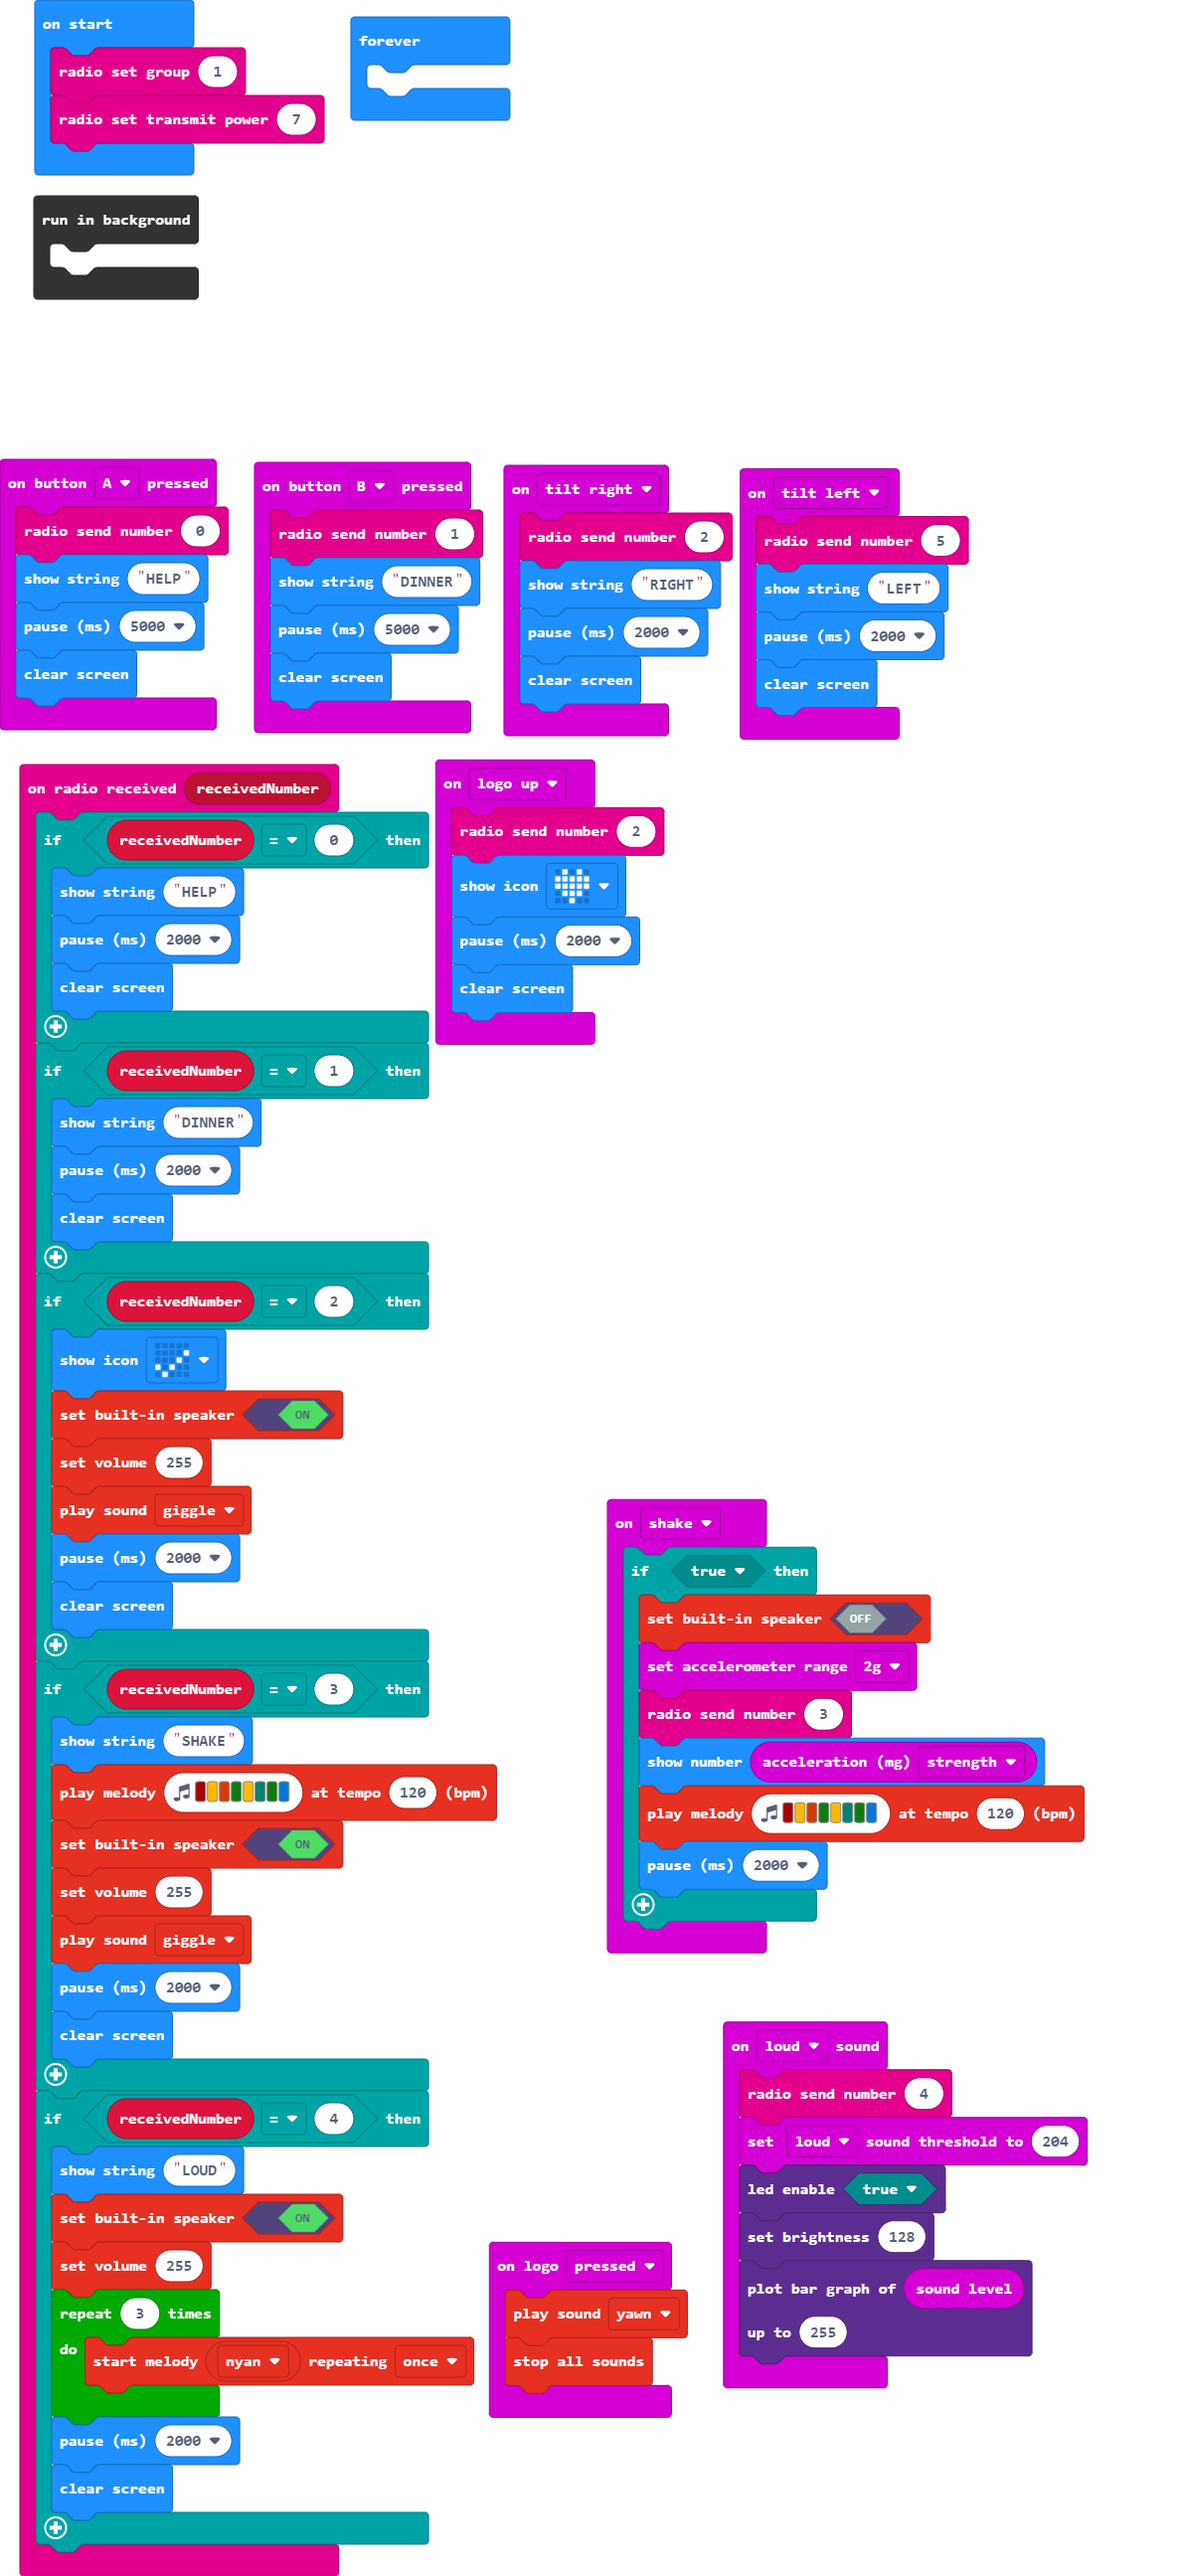
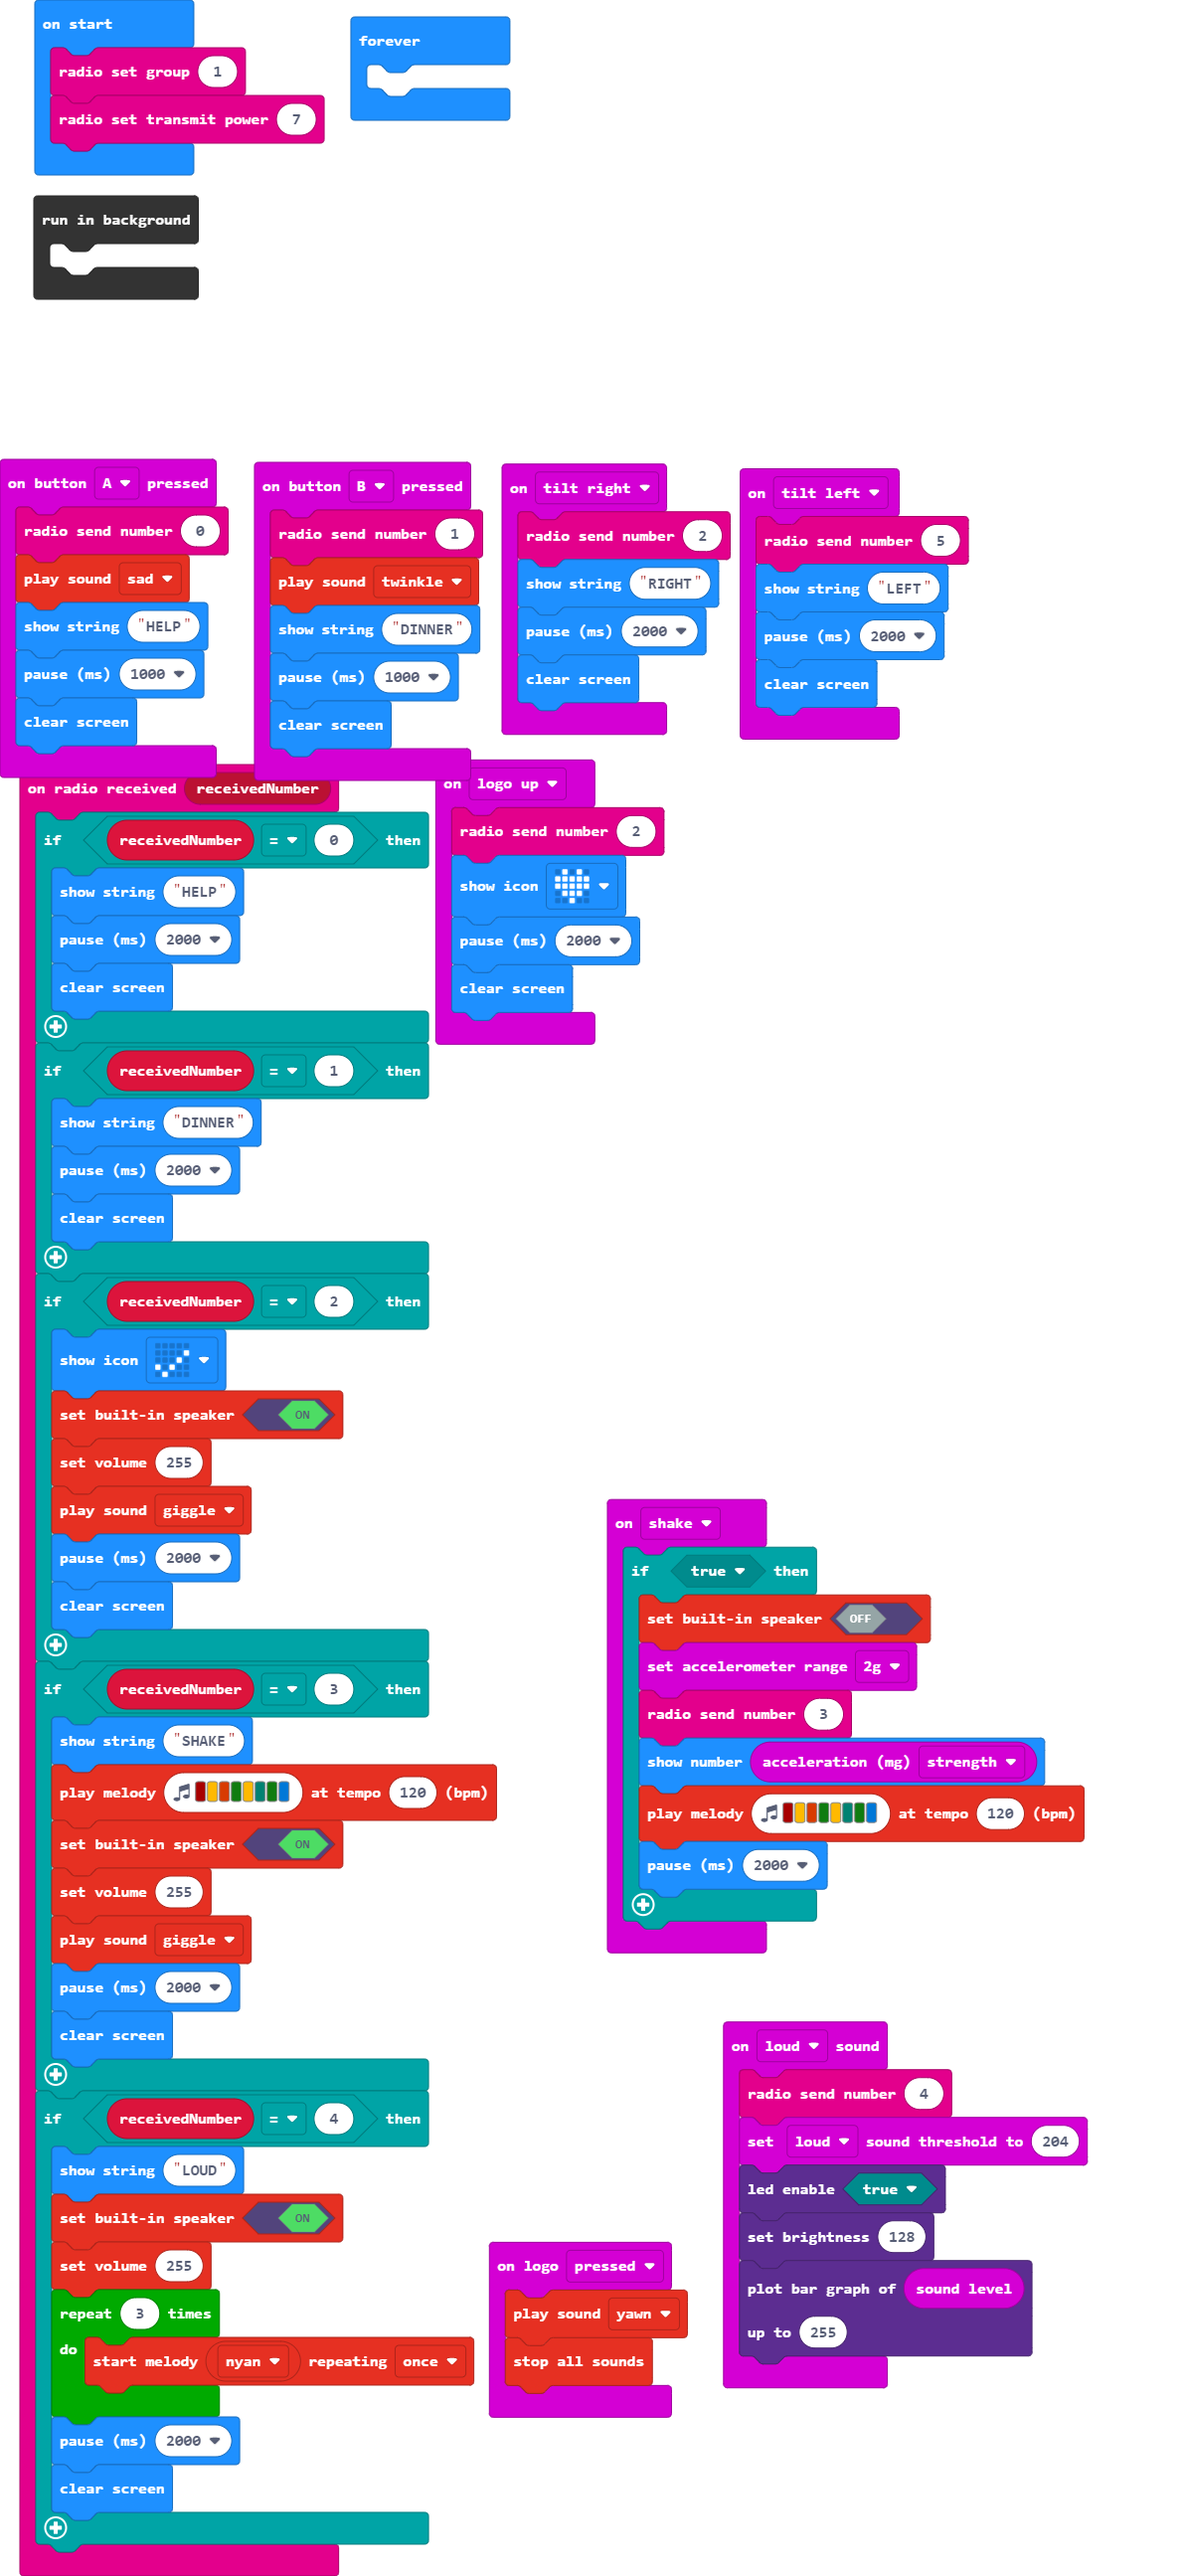
Update main.blocks, main.ts

Changed region(s): [[0.2169, 0.1853, 0.6198, 0.3088], [0.0, 0.2161, 0.1859, 0.3088]]

diff --git a/main.ts b/main.ts
@@ -39,8 +39,9 @@ radio.onReceivedNumber(function (receivedNumber) {
 })
 input.onButtonPressed(Button.A, function () {
     radio.sendNumber(0)
+    soundExpression.sad.play()
     basic.showString("HELP")
-    basic.pause(5000)
+    basic.pause(1000)
     basic.clearScreen()
 })
 input.onGesture(Gesture.LogoUp, function () {
@@ -67,8 +68,9 @@ input.onSound(DetectedSound.Loud, function () {
 })
 input.onButtonPressed(Button.B, function () {
     radio.sendNumber(1)
+    soundExpression.twinkle.play()
     basic.showString("DINNER")
-    basic.pause(5000)
+    basic.pause(1000)
     basic.clearScreen()
 })
 input.onGesture(Gesture.Shake, function () {
